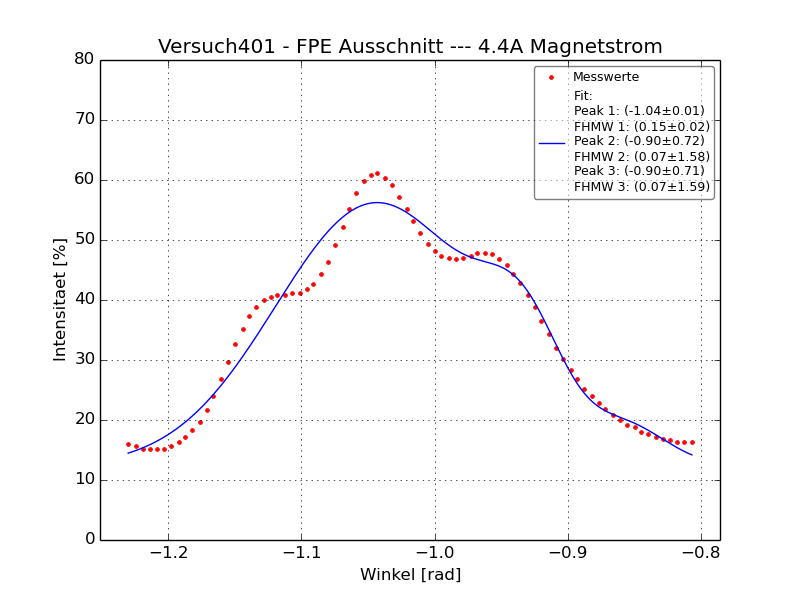
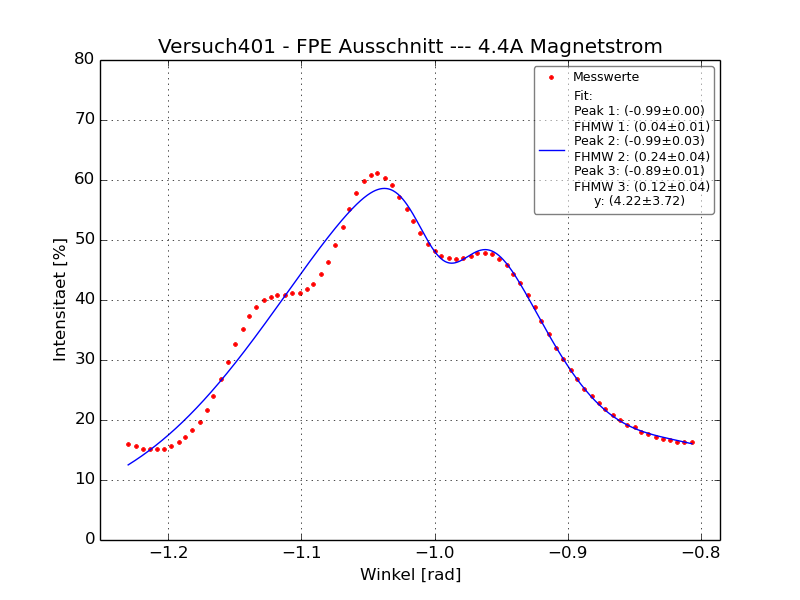
Auswertung des Franck-Hertz teils angefangen und Anhang komplettiert

diff --git a/Versuch401-Elektronische-Uebergaenge-in-Atomen/Report/Versuch401_TobiasBrauell_FrederikeSchroedel_Report.tex b/Versuch401-Elektronische-Uebergaenge-in-Atomen/Report/Versuch401_TobiasBrauell_FrederikeSchroedel_Report.tex
@@ -103,7 +103,7 @@
     \begin{section}{Durchführung}
       \label{chp:Zeeman:sec:Durchfuehrung}
       
-      \begin{figure}[ht!]
+      \begin{figure}[ht]
         \centering
         \includegraphics[width=\textwidth]
             {Figures/Versuch401-KalibrierungdesMagnetfeldes.png}
@@ -130,7 +130,7 @@
       \begin{subsection}{Beobachtung des Zeeman-Effekts}
         \label{chp:Zeeman:sec:AuswertungBeobachtung}
         
-        \begin{figure}[ht!]
+        \begin{figure}[ht]
           \centering
           \begin{minipage}{0.48\textwidth}
             \centering
@@ -138,7 +138,7 @@
                 {Figures/previewOHNEinv.png}
             \caption{Transversale Beobachtung der Interferenz ohne externes 
                 Magnetfeld. (Farben invertiert, d.h. Interferenzmaxima werden 
-                schwarz dargestellt)}
+                dadurch in schwarz dargestellt)}
             \label{fig:previewOHNEinv}
           \end{minipage}\quad
           \begin{minipage}{0.48\textwidth}
@@ -147,14 +147,14 @@
                 {Figures/previewMITinv.png}
             \caption{Transversale Beobachtung der Interferenz mit 
                 eingeschaltetem Magnetfeld. (Farben invertiert, d.h. 
-                Interferenzmaxima werden schwarz dargestellt)}
+                Interferenzmaxima werden dadurch in schwarz dargestellt)}
             \label{fig:previewMITinv}
           \end{minipage}
         \end{figure}
         
         
         
-        \begin{figure}[ht!]
+        \begin{figure}[ht]
           \centering
           \begin{minipage}{0.48\textwidth}
             \centering
@@ -178,7 +178,7 @@
         
         
         
-        \begin{figure}[ht!]
+        \begin{figure}[ht]
           \centering
           \begin{minipage}{0.48\textwidth}
             \centering
@@ -289,8 +289,9 @@
     %%%%%%%%%%%%%%%%%%%%%%%%%%%%%%
     \begin{section}{Auswertung}
       \label{chp:FH:sec:Auswertung}
-      
-      \begin{figure}[ht!]
+      Die Messwerte unserer Messung haben wir für einen besseren Überblick in
+      \cref{fig:FHvergleich} getrennt dargestellt.
+      \begin{figure}[ht]
         \centering
         \includegraphics[width=\textwidth]
             {Figures/Versuch401-Franck-Hertz-VergleichBremsspannungen-Temperaturen.png}
@@ -301,25 +302,99 @@
       
       
       
-      \begin{figure}[ht!]
-        \centering
-        \begin{minipage}{0.48\textwidth}
+      %%%%%%%%%%%%%%%%%%%%%%%%%%%%%%%%%%%%%%%%
+      %%%%%%%%%%%%%%%%%%%%%%%%%%%%%%%%%%%%%%%%
+      %%%%%%%%%%%%%%%%%%%%%%%%%%%%%%%%%%%%%%%%
+      \begin{subsection}{Bestimmung der Energiedifferenz}
+        \label{chp:FH:sec:AuswertungEnergiedifferenz}
+        Zuerst wollen wir aus dem Anodenstromkurven $I_{A}$ die Energiedifferenz
+        $\Delta E$ zwischen dem $6S$- und dem $6P$-Niveau des Hg-Atoms bestimmen.
+        Dazu passen wir an die genommenen Messwerte eine Kombination diverser
+        Gauss Funktionen an und vermessen den Abstand zwischen den
+        Peakschwerpunkten. In \cref{fig:FHB15V,fig:FHT140C} ist dies exemplarisch
+        einmal dargestellt. Um ein möglichst genaues Ergebnis zu erhalten,nehmen
+        wir nun den Mittelwert aller bestimmten Abstände der angepassten
+        Funktionen für alle Messungen und erhalten daraus direkt die
+        Energiedifferenz $\Delta E = (4.971\pm 0.070)\SI{}{\electronvolt}$.
+        Für die Breite der Peaks ergibt sich ein Mittelwert von
+        $E_{Breite} = (1.157\pm 0.082)\SI{}{\electronvolt}$.
+        Die benutzten Messdaten sind in \cref{tab:AbstandBreite} aufgelistet und die
+        Graphen der anderen Messungen sind in \cref{Anhang:chp:FH} zusammen
+        dargestellt. Der einzige Übergang im Hg-Atom,dem diese Energiedifferenz
+        entsprechen kann, ist der Übergang $6^{1}S_{0} \rightarrow 6^{3}P_{1}$.
+        \begin{table}[htbp]
           \centering
-          \includegraphics[width=\textwidth]
-              {Figures/Versuch401-Franck-Hertz-1_5VBremsspannung_Beschl_Spannung_Anodenspannung.png}
-          \caption{Angepasste Gauss-Funktion für ein Beispiel einer
-              Bremsspannung.}
-          \label{fig:FHB15V}
-        \end{minipage}\quad
-        \begin{minipage}{0.48\textwidth}
+          \footnotesize
+          \begin{tabular}{|c|c|c|c|}
+            \hline
+            $Temp.$ [\textdegree C] & $U_{Brems}$ [V] & $\Delta E$ [eV]
+            & $Breite$ [eV] \\ \hline
+            130 & 2.0 & $5.01\pm 0.21$ & $1.50\pm 0.22$ \\ \hline
+            140 & 2.0 & $4.98\pm 0.30$ & $1.18\pm 0.35$ \\ \hline
+            150 & 2.0 & $5.01\pm 0.14$ & $1.01\pm 0.16$ \\ \hline
+            165 & 2.0 & $4.96\pm 0.28$ & $0.99\pm 0.34$ \\ \hline
+            175 & 2.0 & $4.99\pm 0.22$ & $1.06\pm 0.24$ \\ \hline
+            165 & 1.5 & $4.96\pm 0.16$ & $1.21\pm 0.19$ \\ \hline
+            165 & 2.0 & $4.96\pm 0.25$ & $1.05\pm 0.31$ \\ \hline
+            165 & 2.5 & $4.96\pm 0.23$ & $1.14\pm 0.27$ \\ \hline
+            165 & 3.0 & $4.95\pm 0.20$ & $1.17\pm 0.23$ \\ \hline
+            165 & 3.5 & $4.93\pm 0.16$ & $1.26\pm 0.20$ \\ \hline
+          \end{tabular}
+          \caption{Ergebnisse der Funktionsanpassungen.}
+          \label{tab:AbstandBreite}
+        \end{table}
+        \newline
+        Der Literaturwert dieses Übergangs ist mit $\SI{4.89}{\electronvolt}$
+        angegeben und passt damit sogar beinahe in die von uns berechneten
+        Fehlergrenzen. Dieser Übergang besitzt außerdem bei etwa
+        $\SI{5}{\electronvolt}$ ein Maximum im totalen Wirkungsquerschnitt
+        wodurch wir davon ausgehen können das es in unserem Versuch hauptsächlich
+        zu dieser Art des Elektronenüberganges gekommen ist.
+        \begin{figure}[ht]
           \centering
-          \includegraphics[width=\textwidth]
-              {Figures/Versuch401-Franck-Hertz-140CTemperatur_Beschl_Spannung_Anodenspannung.png}
-          \caption{Angepasste Gauss-Funktion für ein Beispiel einer
-              Temperatur.}
-          \label{fig:FHT140C}
-        \end{minipage}
-      \end{figure}
+          \begin{minipage}{0.48\textwidth}
+            \centering
+            \includegraphics[width=\textwidth]
+                {Figures/Versuch401-Franck-Hertz-1_5VBremsspannung_Beschl_Spannung_Anodenspannung.png}
+            \caption{Angepasste Gauss-Funktion für ein Beispiel einer
+                Bremsspannung.}
+            \label{fig:FHB15V}
+          \end{minipage}\quad
+          \begin{minipage}{0.48\textwidth}
+            \centering
+            \includegraphics[width=\textwidth]
+                {Figures/Versuch401-Franck-Hertz-140CTemperatur_Beschl_Spannung_Anodenspannung.png}
+            \caption{Angepasste Gauss-Funktion für ein Beispiel einer
+                Temperatur.}
+            \label{fig:FHT140C}
+          \end{minipage}
+        \end{figure}
+        
+      \end{subsection}
+      %%%%%%%%%%%%%%%%%%%%%%%%%%%%%%%%%%%%%%%%
+      
+      
+      
+      %%%%%%%%%%%%%%%%%%%%%%%%%%%%%%%%%%%%%%%%
+      %%%%%%%%%%%%%%%%%%%%%%%%%%%%%%%%%%%%%%%%
+      %%%%%%%%%%%%%%%%%%%%%%%%%%%%%%%%%%%%%%%%
+      \begin{subsection}{Abhängigkeiten des Anodenstromes}
+        \label{chp:FH:sec:AuswertungAnodenstrom}
+        Als nächstes ist die Abhängigkeit des Anodenstromes 
+      \end{subsection}
+      %%%%%%%%%%%%%%%%%%%%%%%%%%%%%%%%%%%%%%%%
+      
+      
+      
+      %%%%%%%%%%%%%%%%%%%%%%%%%%%%%%%%%%%%%%%%
+      %%%%%%%%%%%%%%%%%%%%%%%%%%%%%%%%%%%%%%%%
+      %%%%%%%%%%%%%%%%%%%%%%%%%%%%%%%%%%%%%%%%
+      \begin{subsection}{Temperaturinterval}
+        \label{chp:FH:sec:AuswertungTemperatur}
+        Als nächstes ist zu klären weshalb die praktische Durchführung des
+        Versuches auf ein relativ kleines Temperaturinterval beschränkt ist.
+      \end{subsection}
+      %%%%%%%%%%%%%%%%%%%%%%%%%%%%%%%%%%%%%%%%
       
     \end{section}
     %%%%%%%%%%%%%%%%%%%%%%%%%%%%%%
@@ -355,7 +430,7 @@
   %%%%%%%%%%%%%%%%%%%%
   \begin{thebibliography}{99}
     \scriptsize
-    
+    \bibitem{bla}bla
    
   \end{thebibliography}
   %%%%%%%%%%%%%%%%%%%%

diff --git a/Versuch401-Elektronische-Uebergaenge-in-Atomen/Report/plots.py b/Versuch401-Elektronische-Uebergaenge-in-Atomen/Report/plots.py
@@ -503,6 +503,9 @@ def CCD_ZoomFit(first, last, bottom, top, title, xlabel1, xunit1, xlabel2, xunit
         fitted_x = np.linspace(np.min(x), np.max(x), 1000)
         fitted_y = gauss_fkt_3(fitted_x, *f)
         
+        yshift = f[3] + f[7] + f[11]
+        dyshift = np.sqrt(df[3]**2 + df[7]**2 + df[11]**2)
+        
         # Plotte die Originaldaten. Da es Messdaten sind, werden sie nicht mit
         # einer Linie verbunden.
         plt.plot(x, y, ".", label=ll, color=plotcolor)
@@ -514,7 +517,8 @@ def CCD_ZoomFit(first, last, bottom, top, title, xlabel1, xunit1, xlabel2, xunit
                  u"\nPeak 2: (%.2f±%.2f)" % (f[5], df[5]) +
                  u"\nFHMW 2: (%.2f±%.2f)" % (f[6], df[6]) +
                  u"\nPeak 3: (%.2f±%.2f)" % (f[9], df[9]) +
-                 u"\nFHMW 3: (%.2f±%.2f)" % (f[10], df[10]))
+                 u"\nFHMW 3: (%.2f±%.2f)" % (f[10], df[10]) +
+                 u"\n    y : (%.2f±%.2f)" % (yshift, dyshift))
         
         # set axis labels
         plt.title(title)
@@ -657,6 +661,8 @@ def FH_Fit(bottom, top, title, xlabel, xunit, ylabel, yunit):
             
             A = (f[4] - f[1])
             dA = np.sqrt((df[4])**2 + (df[1])**2)
+            B = (f[2] + f[5])/n
+            dB = np.sqrt((df[2]/n)**2 + (df[5]/n)**2)
             
             """ Plotte die Anpassungsfunktion. Diesmal ohne Punkte, aber mit
             einer Linie.
@@ -666,7 +672,8 @@ def FH_Fit(bottom, top, title, xlabel, xunit, ylabel, yunit):
                      u"  FHMW 1: (%.2f±%.2f)" % (f[2], df[2]) +
                      u"\nPeak 2: (%.2f±%.2f)" % (f[4], df[4]) +
                      u"  FHMW 2: (%.2f±%.2f)" % (f[5], df[5]) +
-                     u"\nAbstand (Mittelwert): (%.2f±%.2f)" % (A, dA))
+                     u"\nAbstand (Mittelwert): (%.2f±%.2f)" % (A, dA) +
+                     u"\nBreite     (Mittelwert): (%.2f±%.2f)" % (B, dB))
         
         if n == 3:
             f, varianz = op.curve_fit(gauss_fkt_3x3, x, y, p0=p0)
@@ -677,6 +684,8 @@ def FH_Fit(bottom, top, title, xlabel, xunit, ylabel, yunit):
             
             A = ((f[4] - f[1]) + (f[7] - f[4])) / 2
             dA = np.sqrt((df[1]/2)**2 + (2*df[4]/2)**2 + (df[7]/2)**2)
+            B = (f[2] + f[5] + f[8])/n
+            dB = np.sqrt((df[2]/n)**2 + (df[5]/n)**2 + (df[8]/n)**2)
             
             """ Plotte die Anpassungsfunktion. Diesmal ohne Punkte, aber mit
             einer Linie.
@@ -688,7 +697,8 @@ def FH_Fit(bottom, top, title, xlabel, xunit, ylabel, yunit):
                      u"  FHMW 2: (%.2f±%.2f)" % (f[5], df[5]) +
                      u"\nPeak 3: (%.2f±%.2f)" % (f[7], df[7]) +
                      u"  FHMW 3: (%.2f±%.2f)" % (f[8], df[8]) +
-                     u"\nAbstand (Mittelwert): (%.2f±%.2f)" % (A, dA))
+                     u"\nAbstand (Mittelwert): (%.2f±%.2f)" % (A, dA) +
+                     u"\nBreite     (Mittelwert): (%.2f±%.2f)" % (B, dB))
         
         if n == 4:
             f, varianz = op.curve_fit(gauss_fkt_4x3, x, y, p0=p0)
@@ -700,6 +710,9 @@ def FH_Fit(bottom, top, title, xlabel, xunit, ylabel, yunit):
             A = ((f[4]-f[1]) + (f[7]-f[4]) + (f[10]-f[7])) / 3
             dA = np.sqrt((df[1]/3)**2 + (2*df[4]/3)**2 + (2*df[7]/3)**2 +
                          (df[10]/3)**2)
+            B = (f[2] + f[5] + f[8] + f[11])/n
+            dB = np.sqrt((df[2]/n)**2 + (df[5]/n)**2 + (df[8]/n)**2 +
+                         (df[11]/n)**2)
             
             """ Plotte die Anpassungsfunktion. Diesmal ohne Punkte, aber mit
             einer Linie.
@@ -713,7 +726,8 @@ def FH_Fit(bottom, top, title, xlabel, xunit, ylabel, yunit):
                      u"  FHMW 3: (%.2f±%.2f)" % (f[8], df[8]) +
                      u"\nPeak 4: (%.2f±%.2f)" % (f[10], df[10]) +
                      u"  FHMW 4: (%.2f±%.2f)" % (f[11], df[11]) +
-                     u"\nAbstand (Mittelwert): (%.2f±%.2f)" % (A, dA))
+                     u"\nAbstand (Mittelwert): (%.2f±%.2f)" % (A, dA) +
+                     u"\nBreite     (Mittelwert): (%.2f±%.2f)" % (B, dB))
         
         if n == 5:
             f, varianz = op.curve_fit(gauss_fkt_5x3, x, y, p0=p0)
@@ -726,6 +740,9 @@ def FH_Fit(bottom, top, title, xlabel, xunit, ylabel, yunit):
                        (f[13]-f[10])) / 4
             dA = np.sqrt((df[1]/4)**2 + (2*df[4]/4)**2 + (2*df[7]/4)**2 +
                          (2*df[10]/4)**2 + (df[13]/4)**2)
+            B = (f[2] + f[5] + f[8] + f[11] + f[14])/n
+            dB = np.sqrt((df[2]/n)**2 + (df[5]/n)**2 + (df[8]/n)**2 +
+                         (df[11]/n)**2 + (df[14]/n)**2)
             
             """ Plotte die Anpassungsfunktion. Diesmal ohne Punkte, aber mit
             einer Linie.
@@ -741,7 +758,8 @@ def FH_Fit(bottom, top, title, xlabel, xunit, ylabel, yunit):
                      u"  FHMW 4: (%.2f±%.2f)" % (f[11], df[11]) +
                      u"\nPeak 5: (%.2f±%.2f)" % (f[13], df[13]) +
                      u"  FHMW 5: (%.2f±%.2f)" % (f[14], df[14]) +
-                     u"\nAbstand (Mittelwert): (%.2f±%.2f)" % (A, dA))
+                     u"\nAbstand (Mittelwert): (%.2f±%.2f)" % (A, dA) +
+                     u"\nBreite     (Mittelwert): (%.2f±%.2f)" % (B, dB))
         
         # set axis labels
         plt.title(title)
@@ -857,8 +875,8 @@ CCD_ZoomFit_Winkel_plotting = 0
 FH_SingleRAW_plotting = 0
 FH_Vergleiche_plotting = 0
 # FITTINGS
-FH_B_Gauss_plotting = 0
-FH_T_Gauss_plotting = 0
+FH_B_Gauss_plotting = 1
+FH_T_Gauss_plotting = 1
 
 # RAW DATA
 MF_plotting = 0

diff --git a/Versuch401-Elektronische-Uebergaenge-in-Atomen/Report/Versuch401_TobiasBrauell_FrederikeSchroedel_Appendix.tex b/Versuch401-Elektronische-Uebergaenge-in-Atomen/Report/Versuch401_TobiasBrauell_FrederikeSchroedel_Appendix.tex
@@ -10,7 +10,7 @@
   %%%%%%%%%%%%%%%%%%%%%%%%%%%%%%
   %%%%%%%%%%%%%%%%%%%%%%%%%%%%%%
   \begin{chapter}{ERSTER TEIL - Zeeman-Effekt}
-    \label{Anhang:chp:ERSTERTEIL}
+    \label{Anhang:chp:Zeeman}
     
     
     
@@ -18,7 +18,7 @@
     %%%%%%%%%%%%%%%%%%%%%%%%%%%%%%%%%%%%%%%%
     %%%%%%%%%%%%%%%%%%%%%%%%%%%%%%%%%%%%%%%%
     \begin{section}{Magnetfeldkalibrierung}
-      \label{Anhang:chp:ERSTERTEILmagnetfeld}
+      \label{Anhang:chp:Zeemanmagnetfeld}
       
       \begin{table}[htbp]
         \centering
@@ -43,7 +43,7 @@
     %%%%%%%%%%%%%%%%%%%%%%%%%%%%%%%%%%%%%%%%
     %%%%%%%%%%%%%%%%%%%%%%%%%%%%%%%%%%%%%%%%
     \begin{section}{CCD Kamera}
-      \label{Anhang:chp:ERSTERTEILccd}
+      \label{Anhang:chp:Zeemanccd}
       
       \begin{scriptsize}
         \begin{longtable}[htbp]{|c|c|c|c|c|c|c|c|c|c|c|c|c|}
@@ -70,7 +70,7 @@
   %%%%%%%%%%%%%%%%%%%%%%%%%%%%%%
   %%%%%%%%%%%%%%%%%%%%%%%%%%%%%%
   \begin{chapter}{ZWEITER TEIL - Franck-Hertz-Versuch}
-    \label{Anhang:chp:ZWEITERTEIL}
+    \label{Anhang:chp:FH}
     
     
     
@@ -78,7 +78,7 @@
     %%%%%%%%%%%%%%%%%%%%%%%%%%%%%%%%%%%%%%%%
     %%%%%%%%%%%%%%%%%%%%%%%%%%%%%%%%%%%%%%%%
     \begin{section}{Bremsspannung}
-      \label{Anhang:chp:ZWEITERTEILbremsspannung}
+      \label{Anhang:chp:FHbremsspannung}
       
       \begin{scriptsize}
         \begin{longtable}[htbp]{|c|c|c|c|c|c|c|c|c|c|}
@@ -99,7 +99,7 @@
       
       
       \newpage
-      \begin{figure}[ht!]
+      \begin{figure}[ht]
         \centering
         \begin{minipage}{0.48\textwidth}
           \centering
@@ -153,7 +153,7 @@
     %%%%%%%%%%%%%%%%%%%%%%%%%%%%%%%%%%%%%%%%
     %%%%%%%%%%%%%%%%%%%%%%%%%%%%%%%%%%%%%%%%
     \begin{section}{Temperatur}
-      \label{Anhang:chp:ZWEITERTEILtemperatur}
+      \label{Anhang:chp:FHtemperatur}
       
       \begin{scriptsize}
         \begin{longtable}[htbp]{|c|c|c|c|c|c|c|c|c|c|}
@@ -174,7 +174,7 @@
       
       
       \newpage
-      \begin{figure}[ht!]
+      \begin{figure}[ht]
         \centering
         \begin{minipage}{0.48\textwidth}
           \centering
